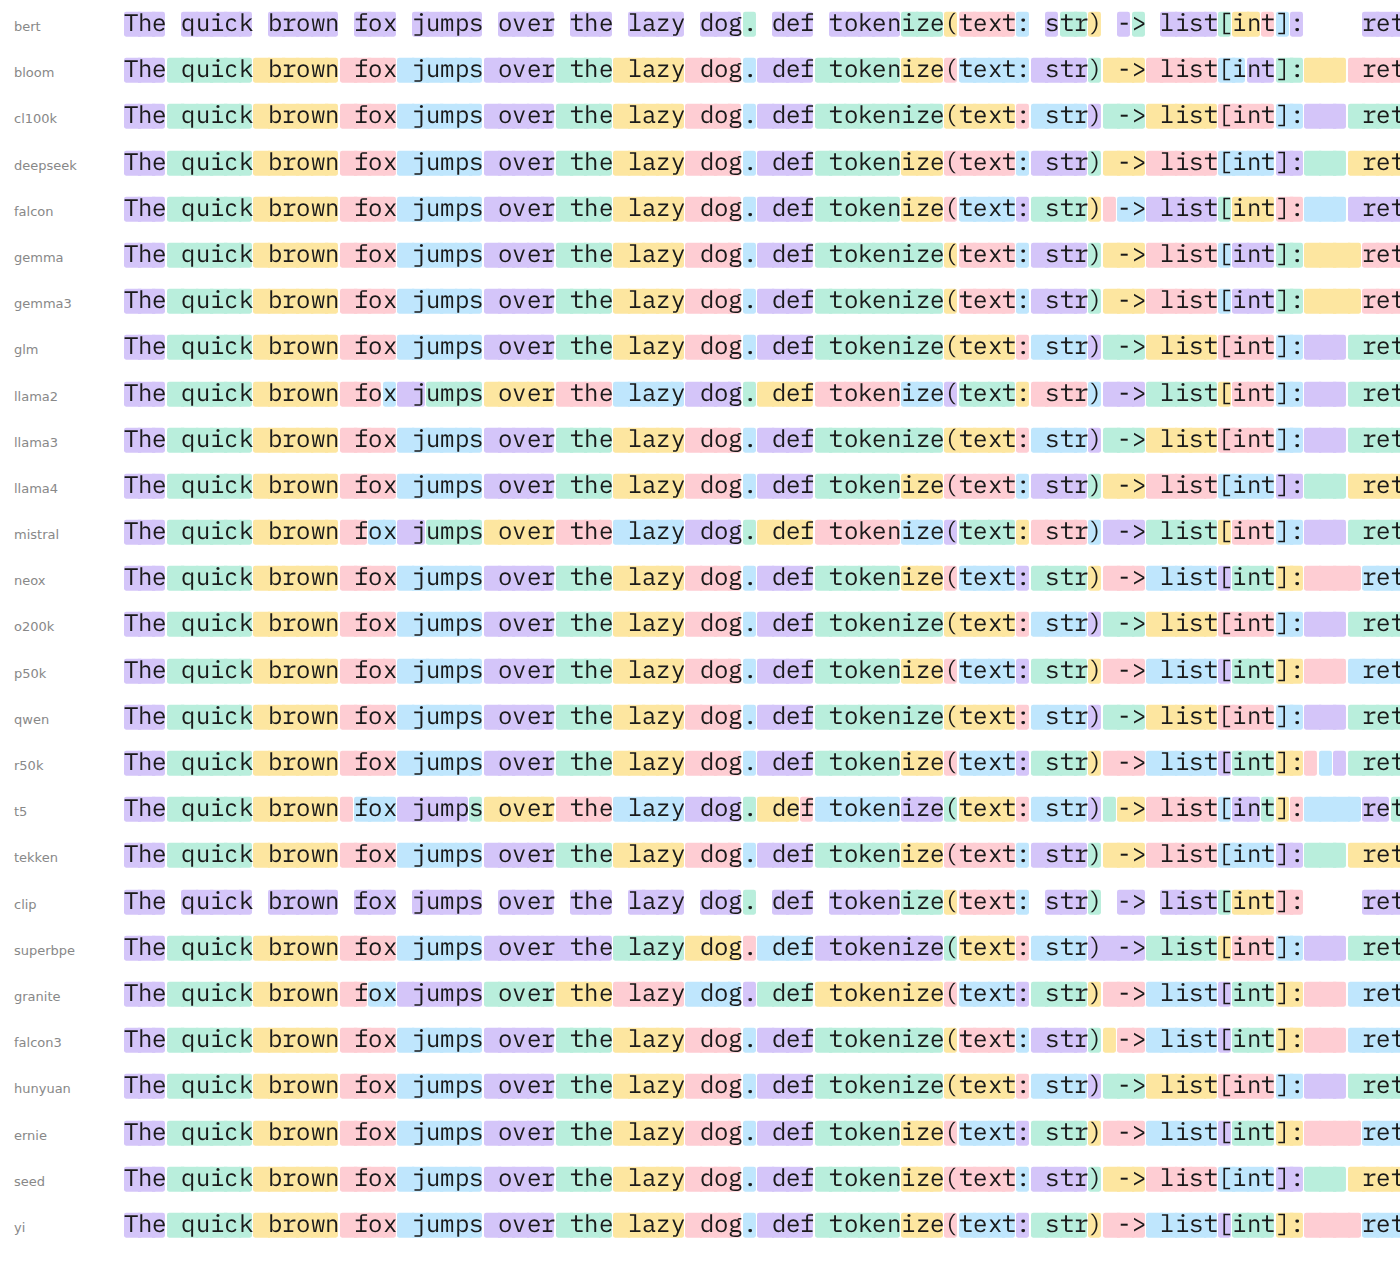
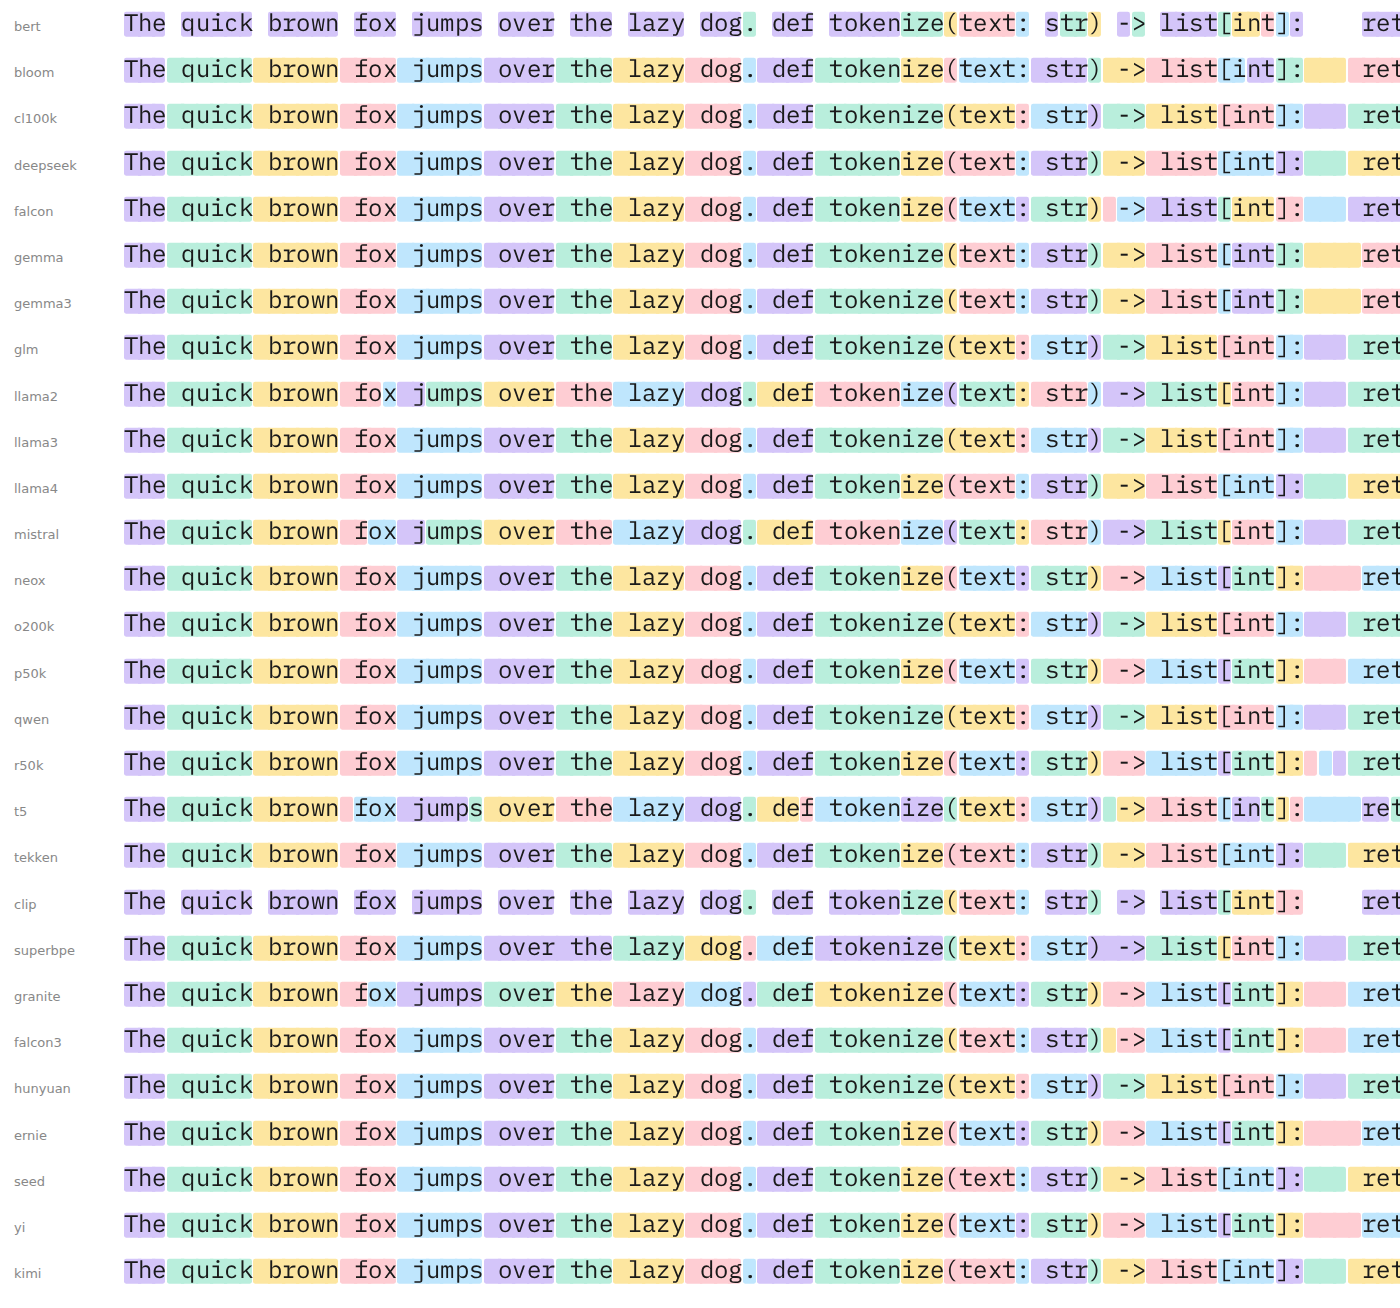
Kimi K2 face (28th): tiktoken-format vocabulary loader (tiktokenfile:<repo>, pat_str from Kimi's tokenizer code); README variants table regains its SuperBPE row; gallery with 28 faces

diff --git a/tools/vocab.py b/tools/vocab.py
@@ -70,6 +70,22 @@ class Tiktoken(_Base):
         return out
 
 
+class TiktokenFile(Tiktoken):
+    """A tiktoken-format vocabulary published on the Hub (Kimi K2 ships
+    tiktoken.model plus a tokenization_*.py whose pat_str we read as-is)."""
+
+    def __init__(self, repo: str):
+        import tiktoken
+        from huggingface_hub import hf_hub_download
+        from tiktoken.load import load_tiktoken_bpe
+        model = hf_hub_download(repo, "tiktoken.model", cache_dir=HF_CACHE)
+        ranks = load_tiktoken_bpe(model)
+        code = Path(hf_hub_download(repo, "tokenization_kimi.py", cache_dir=HF_CACHE)).read_text()
+        m = re.search(r'pat_str = "\|"\.join\(\s*\[(.*?)\]\s*\)', code, re.S)
+        parts = re.findall(r'r"""(.*?)"""', m.group(1), re.S)
+        self.enc = tiktoken.Encoding(name=repo, pat_str="|".join(parts), mergeable_ranks=ranks, special_tokens={})
+
+
 class HF(_Base):
     def __init__(self, repo: str):
         from huggingface_hub import hf_hub_download
@@ -171,4 +187,6 @@ def load(spec: str):
         return Tiktoken(name)
     if kind == "hf":
         return HF(name)
+    if kind == "tiktokenfile":
+        return TiktokenFile(name)
     raise ValueError(spec)

diff --git a/fonts/tokenizer/recipe.py b/fonts/tokenizer/recipe.py
@@ -61,6 +61,7 @@ VARIANTS = {
     "seed":     ("hf:ByteDance-Seed/Seed-OSS-36B-Instruct", "Tokenizer Mono Seed", "ByteDance Seed-OSS"),
     "yi":       ("hf:01-ai/Yi-1.5-9B",              "Tokenizer Mono Yi",       "01.AI Yi (SentencePiece)"),
     "clip":     ("hf:openai/clip-vit-base-patch32", "Tokenizer Mono CLIP",     "OpenAI CLIP, Stable Diffusion prompts (lowercases; no whitespace tokens)"),
+    "kimi":     ("tiktokenfile:moonshotai/Kimi-K2-Instruct", "Tokenizer Mono Kimi", "Moonshot Kimi K2 (tiktoken-format vocabulary)"),
 }
 VARIANT = "cl100k"
 FAMILY = VARIANTS[VARIANT][1]

diff --git a/README.md b/README.md
@@ -45,7 +45,7 @@ legacy family name (ID 1) and the file name carry the variant.
 | bloom    | bigscience/bloom                        | BigScience BLOOM (multilingual) |
 | t5       | google-t5/t5-base                       | Google T5 (SentencePiece Unigram, not BPE) |
 | bert     | bert-base-cased                         | Google BERT (WordPiece; ## continuations approximated) |
-| superbpe | 87.2% | 89.2% | 1931 / 1886 | 62 µs/char | 16.5 MB |
+| superbpe | UW/OLMo2-8B-SuperBPE-t180k              | UW SuperBPE for OLMo 2 (tokens cross word boundaries) |
 | granite  | ibm-granite/granite-3.3-8b-instruct     | IBM Granite 3 and Granite Code (StarCoder vocabulary); also StarCoder |
 | falcon3  | tiiuae/Falcon3-7B-Base                  | TII Falcon 3 |
 | hunyuan  | tencent/Hunyuan-7B-Instruct             | Tencent Hunyuan |
@@ -53,15 +53,18 @@ legacy family name (ID 1) and the file name carry the variant.
 | seed     | ByteDance-Seed/Seed-OSS-36B-Instruct    | ByteDance Seed-OSS |
 | yi       | 01-ai/Yi-1.5-9B                         | 01.AI Yi (SentencePiece) |
 | clip     | openai/clip-vit-base-patch32            | OpenAI CLIP, Stable Diffusion prompts (lowercases; no whitespace tokens) |
+| kimi     | moonshotai/Kimi-K2-Instruct (tiktoken.model) | Moonshot Kimi K2 (tiktoken-format vocabulary) |
 
-![The same sentence in all 27 faces](docs/gallery.png)
+![The same sentence in all 28 faces](docs/gallery.png)
 
 Many models share a vocabulary, so one face covers several: Phi-4, OLMo 2
 and Granite 4 use cl100k, gpt-oss uses o200k, Qwen 3 uses Qwen 2.5's, SmolLM 3
 uses Llama 3's, Nemotron-H and Apertus use Tekken, CodeLlama and Phi-3 use
-Llama 2's, Pythia uses NeoX's, StarCoder uses Granite 3's. Kimi K2 and Grok 2
-publish their vocabularies in other formats (a tiktoken file, xAI's own JSON)
-rather than `tokenizer.json`; Cohere and AI21 gate theirs behind a terms page.
+Llama 2's, Pythia uses NeoX's, StarCoder uses Granite 3's. Kimi K2 has no
+`tokenizer.json`; it ships a tiktoken-format `tiktoken.model`, which
+`tools/vocab.py` loads with the pattern string from Kimi's own tokenizer
+code. Grok 2 publishes its vocabulary only in xAI's own JSON format; Cohere
+and AI21 gate theirs behind a terms page.
 Anthropic's tokenizer is not public, so there is no Claude face.
 
 ### Where the "also" claims come from
@@ -178,6 +181,7 @@ from a local run of the current build, reproduced by CI on every push (sorted by
 | o200k | 97.8% | 97.9% | 2802 / 2800 | 52 µs/char | 13.1 MB |
 | glm | 97.8% | 96.9% | 2802 / 2829 | 48 µs/char | 11.7 MB |
 | llama2 | 97.7% | 97.8% | 3266 / 3265 | 51 µs/char | 8.8 MB |
+| kimi | 97.7% | 97.6% | 2810 / 2811 | 45 µs/char | 10.3 MB |
 | falcon3 | 97.5% | 98.6% | 3112 / 3075 | 41 µs/char | 11.4 MB |
 | deepseek | 97.5% | 97.6% | 2924 / 2921 | 46 µs/char | 9.9 MB |
 | falcon | 97.3% | 98.3% | 3225 / 3192 | 43 µs/char | 9.1 MB |
